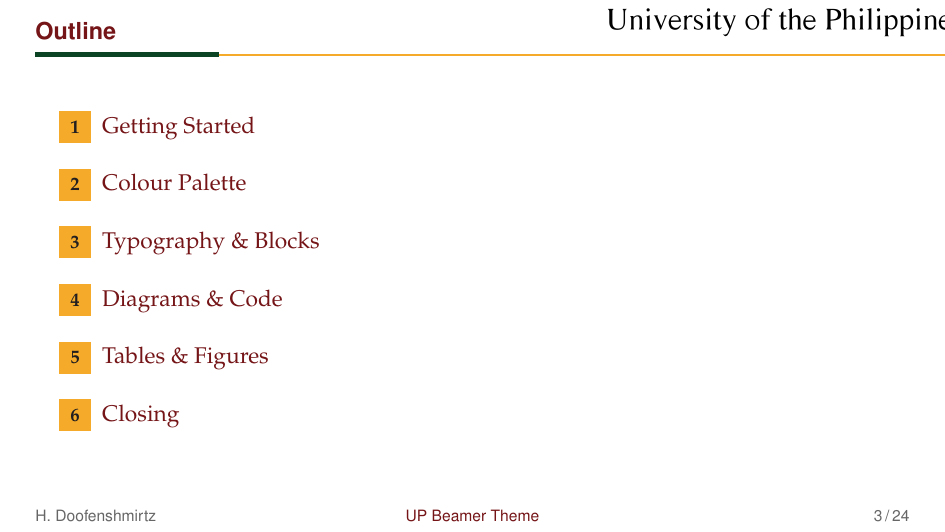
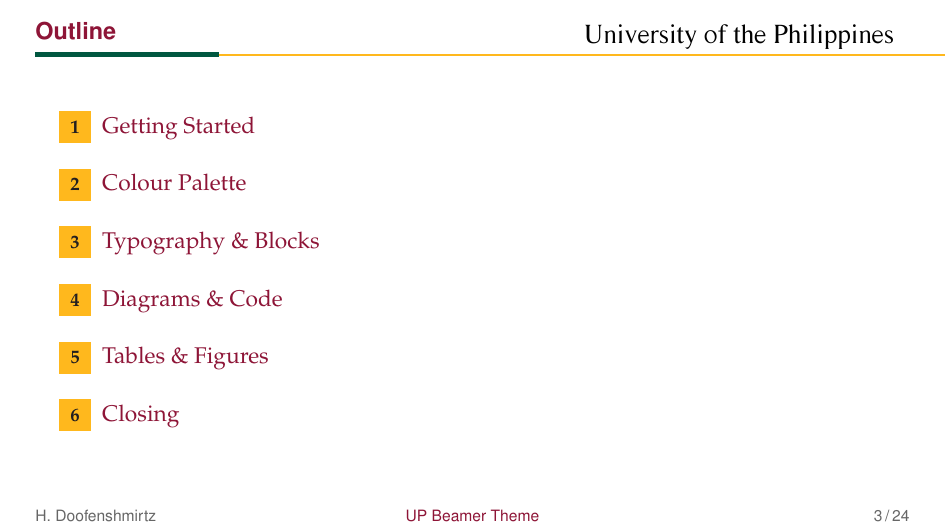
fix: refine UP header lockup with lineshot seal and balanced wordmark sizing
- updated `beamer-up/beamerouterthemeUU.sty` so the non-`nl` content-slide header now composes the UP lineshot seal beside the selected English or Filipino logotype while preserving the legacy `nl` compatibility path

- reduced the header seal scale, tightened the lockup spacing, and split the English and Filipino header wordmark widths so the UP lockup stays inside the header band and reads closer to the branding specification

- revalidated the affected header surfaces with `latexmk -pdf main.tex` and higher-resolution local page renders after the lockup-sizing change

- bumped the public docs to `v0.0.12`, added `docs/version-0-0-12-docs.md`, and recorded the new local header-inspection PNGs under `CHANGELOG.md` `For Deletion`

diff --git a/docs/version-0-0-12-docs.md b/docs/version-0-0-12-docs.md
@@ -1,0 +1,199 @@
+# Version v0.0.12 Documentation
+
+## Title
+Rebuilt the UP Content-Slide Header as a Seal-Plus-Logotype Lockup in `beamer-up`
+
+## Quick Diagnostic Read
+
+This version is a focused follow-up to the earlier UP header-alignment pass.
+It does five concrete things:
+
+- replaces the standalone non-`nl` UP content-slide wordmark with a real seal-plus-logotype header lockup,
+- scales the lineshot seal and lockup spacing so the composed mark stays inside the header band,
+- assigns separate English and Filipino wordmark widths so both variants read at a consistent apparent text height,
+- leaves the legacy `nl` Utrecht corner-logo path unchanged,
+- records the extra local inspection previews for later deletion instead of removing them automatically.
+
+## One-Sentence Objective
+
+Make the UP content-slide header behave like a compact branded lockup that follows the UP spec more closely while still fitting the Beamer header band cleanly.
+
+## Why This Version Matters
+
+The previous alignment work corrected where the UP header wordmark ended.
+It did not yet solve what the header actually was.
+
+That left three visible problems:
+
+- the non-`nl` UP path still rendered only the wordmark rather than a seal-plus-logotype lockup,
+- the first seal-and-wordmark attempt was too tall for the header band and visually collided with the gold rule,
+- the English and Filipino wordmarks did not read at the same apparent size when paired against the same seal.
+
+This version addresses those constraints directly.
+It keeps the same public `UP` loader and option names, but it changes the content-slide branding surface to behave more like a compact institutional lockup instead of a long corner label.
+
+## Plan A / Plan B
+
+### Plan A (Recommended)
+
+1. Open `beamer-up/beamerouterthemeUU.sty`.
+2. Find the non-`nl` `showlogo` branch in the footline overlay.
+3. Compile `beamer-up/main.tex`.
+4. Inspect the top-right header on the outline slide and a normal content slide.
+
+### Plan B
+
+1. Read `CHANGELOG.md` for the short release summary.
+2. Open the high-resolution cropped header previews recorded for this version.
+3. Compare the resulting lockup against the UP spec image and the old Utrecht corner-lockup behavior.
+
+## System View
+
+The relevant progression now looks like this:
+
+```text
+added selectable UP logotype variants
+  -> aligned the UP header wordmark to the content margin
+  -> rebuilt the content-slide header as a seal-plus-logotype lockup
+  -> tuned seal scale and language-specific wordmark widths
+  -> next packaging and provenance cleanup work
+```
+
+This matters because the current issue was no longer just placement.
+It was the relationship between seal, wordmark, spacing, and the fixed vertical budget of the header band.
+
+## Artifact Map
+
+### Theme implementation surface updated in this version
+
+- `beamer-up/beamerouterthemeUU.sty`
+
+### Public documentation updated in this version
+
+- `README.md`
+- `CHANGELOG.md`
+- `docs/version-0-0-12-docs.md`
+
+### Temporary inspection outputs recorded in this version
+
+- `beamer-up/logos/up-logo-lineshot-on-white-preview.png`
+- `beamer-up/logos/up-logotype-eng-black-on-white-preview.png`
+- `beamer-up/logos/up-logotype-tag-black-on-white-preview.png`
+- `beamer-up/preview-page-3-hi.png`
+- `beamer-up/preview-page-3-hi-topright.png`
+- `beamer-up/preview-page-6-hi.png`
+- `beamer-up/preview-page-6-hi-topright.png`
+
+## Detailed Walkthrough
+
+## 1) The content-slide UP path now composes a real lockup
+
+The non-`nl` content-slide logo path no longer drops in only the selected wordmark.
+Instead, it now composes:
+
+- the UP lineshot seal on the left,
+- the selected English or Filipino UP wordmark on the right,
+- a fixed gap between them inside one compact TikZ lockup.
+
+This makes the UP header behave more like the institutional lockup shown in the branding specification rather than a free-floating text mark.
+
+## 2) The lockup now respects the header-band height
+
+The first composed attempt was visibly too tall.
+The seal dipped into the rule area and the overall result felt oversized relative to the Utrecht header reference.
+
+This version scales the lineshot seal down and adjusts the lockup anchor so the whole mark stays inside the available header band instead of spilling downward.
+
+That change is small in code but important in the rendered slide.
+
+## 3) English and Filipino now use different header widths deliberately
+
+The English and Filipino wordmarks have different lengths and letter shapes.
+Using one shared width made one variant look too large or the other too small relative to the seal.
+
+So the header now uses:
+
+- one width for English,
+- a separate width for Filipino,
+- the same seal size and spacing rule for both.
+
+The goal is not identical total lockup width.
+The goal is consistent apparent text height next to the seal while still fitting the header band.
+
+## 4) The Dutch compatibility path remains separate
+
+The `nl` branch still uses the inherited Dutch corner-logo behavior.
+It was not converted into the new UP seal-plus-logotype composition.
+
+That preserves legacy compatibility and keeps the new lockup logic scoped to the public UP path only.
+
+## 5) Validation required high-resolution inspection
+
+This change could not be judged reliably from compilation alone.
+The deck was rebuilt locally and then rendered again at higher resolution so the top-right header could be inspected directly.
+
+That inspection confirmed:
+
+- the seal is present and legible,
+- the lockup stays inside the header band,
+- the English header reads as a compact seal-plus-wordmark composition rather than a standalone line of text.
+
+## Compile and Validation Notes
+
+The affected showcase deck was rebuilt locally on April 1, 2026 with:
+
+```sh
+cd beamer-up
+latexmk -pdf main.tex
+```
+
+Observed results from the validation run:
+
+- `main.pdf` was produced successfully after the lockup composition change,
+- the higher-resolution local header crops show the seal-plus-logotype composition on the affected content slides,
+- the non-fatal MiKTeX log-permission warnings remain,
+- the existing `hyperref` warnings and the underfull box in the options example remain.
+
+These warnings predate this lockup refinement and were not introduced by the new composition rule.
+
+## Pitfalls and Debugging Notes
+
+### 1) Header fit is constrained by height more than width
+
+The content-slide header has very little vertical budget.
+A lockup that looks reasonable at source-image size can still be wrong once it is placed against the rule and the page top.
+
+### 2) One shared wordmark width is not enough for both languages
+
+English and Filipino do not scale into the same apparent size when placed beside the same seal with the same width parameter.
+Treat them as separate header-fit cases.
+
+### 3) `nl` should remain a separate compatibility path
+
+The Dutch logo is still a legacy compatibility surface.
+It should not be used as the source of truth for UP seal-to-wordmark proportions.
+
+### 4) Inspection PNGs are disposable
+
+The white-background asset previews and high-resolution page crops are only local review outputs.
+They are recorded under `CHANGELOG.md` `For Deletion` and should not be treated as shipped theme assets.
+
+## Practice Task
+
+Compile the showcase deck and inspect:
+
+1. the outline slide,
+2. the `Theme Options at a Glance` slide.
+
+Self-check:
+
+- does the content-slide UP header now include the lineshot seal,
+- does the full lockup stay above the gold rule,
+- does the English or Filipino text read proportionally against the smaller seal,
+- does the `nl` path remain unchanged.
+
+## Next 24-72 Hours
+
+1. Verify the Filipino header lockup visually with a dedicated rendered crop, not only the English default deck.
+2. Remove the temporary preview images after review.
+3. Continue packaging and provenance cleanup once the UP content-slide header lockup is considered visually final.

diff --git a/README.md b/README.md
@@ -29,9 +29,9 @@
   <p align="center">
     <strong>An unofficial Beamer theme initiative for the University of the Philippines System.</strong>
     <br />
-    Version: v0.0.11
+    Version: v0.0.12
     <br />
-    Status: independently maintained derivative work; the supported public <code>UP</code> loader is implemented and compile-validated, the checked-in theme now exposes selectable UP logotype variants on light and dark slide surfaces, applies the corrected official UP core palette, aligns the content-slide UP wordmark to the right content margin, and still has release-ready packaging plus public validation notes in progress.
+    Status: independently maintained derivative work; the supported public <code>UP</code> loader is implemented and compile-validated, the checked-in theme now exposes selectable UP logotype variants on light and dark slide surfaces, applies the corrected official UP core palette, and composes a scaled content-slide UP lineshot-seal plus logotype lockup that stays inside the header band while still leaving release-ready packaging plus public validation notes in progress.
     <br />
     <a href="https://github.com/zcalifornia-ph/beamer-up"><strong>Explore the repository »</strong></a>
     <br />
@@ -90,7 +90,7 @@ This derivative work is maintained in this repository by Zildjian E. California.
 - The checked-in theme now applies the corrected official UP core palette `#8E1537`, `#005740`, `#FFB81D`, `#231F20`, and the corresponding slide treatments across title, section, content, standout, and closing-slide surfaces.
 - The supported compile baseline is `pdfLaTeX` with `biber`; `latexmk` is the recommended entry command.
 - The checked-in font stack uses Palatino for body copy and a Helvetica-style sans family for headings under the supported `pdfLaTeX` path.
-- The default `showlogo` path now uses runtime-cropped UP logotype PNGs so the header placement remains stable on content slides, with `english` as the default language variant and `filipino` available for `Unibersidad ng Pilipinas`; the UP wordmark now aligns its visible right edge to the content margin, while the `nl` option remains a legacy Dutch-logo compatibility path.
+- The default `showlogo` path now uses a content-slide UP lineshot-seal plus logotype lockup, with `english` as the default language variant and `filipino` available for `Unibersidad ng Pilipinas`; the non-`nl` lockup is scaled to stay inside the header band and anchored to the right content margin, while the `nl` option remains a legacy Dutch-logo compatibility path.
 - Title and thank-you slides now reuse the selected UP logotype in a dark-surface white variant when that asset exists.
 - Some file names, helper names, and color tokens still reflect historical `UU` lineage; they are compatibility details rather than the intended long-term public brand.
 - The theme files in this repository are distributed under `LPPL 1.3c`; institutional names, logos, and other brand assets may still involve separate usage constraints outside the software license.
@@ -136,6 +136,7 @@ docs/
   version-0-0-9-docs.md
   version-0-0-10-docs.md
   version-0-0-11-docs.md
+  version-0-0-12-docs.md
 repo/images/
   project_screen.png
 ```
@@ -195,9 +196,9 @@ Migration expectations now in effect:
 - `UP` is the supported public loader.
 - Existing options `showlogo`, `english`, `filipino`, `nl`, and `nosectionpage` are supported on the public loader.
 - Existing helper commands such as `\multiauthor`, `\singleauthor`, `\addinstitute`, `\clearinstitutes`, `\venue`, `\sectionframe`, `\standoutframe`, and `\thankframe` are expected to remain available.
-- `showlogo` renders the bundled UP logotype by default; `english` selects `University of the Philippines`, `filipino` selects `Unibersidad ng Pilipinas`, and `nl` switches to the legacy Dutch-logo compatibility path.
+- `showlogo` renders the bundled UP content-slide header lockup by default; `english` selects `University of the Philippines`, `filipino` selects `Unibersidad ng Pilipinas`, and `nl` switches to the legacy Dutch-logo compatibility path.
 - The current UP runtime uses cropped logo copies inside `beamer-up/logos/` so the selected logotype can be positioned consistently on content, title, and closing slides without depending on oversized transparent source canvases.
-- On content slides, the English and Filipino UP wordmarks now align their visible right edge to the same right margin used by the main content blocks; the `nl` compatibility logo keeps its legacy corner placement.
+- On content slides, the English and Filipino UP header lockups now pair the lineshot seal with the selected wordmark, fit inside the header band, and align the overall lockup to the same right margin used by the main content blocks; the `nl` compatibility logo keeps its legacy corner placement.
 - The default visual system now uses UP maroon `#8E1537`, forest green `#005740`, yellow `#FFB81D`, and spot black `#231F20` across the checked-in showcase and theme templates.
 - Any remaining `UU` compatibility path should be treated as a deprecated bridge rather than a coequal public alias.
 - Direct `UU` subtheme loading remains an internal compatibility detail, not part of the intended public first-release contract.

diff --git a/CHANGELOG.md b/CHANGELOG.md
@@ -1,6 +1,6 @@
 # Changelog
 
-Status: current repo milestone `v0.0.11`; the supported `UP` loader, selectable UP logotype variants, the corrected official UP core palette, the refined content-slide logo alignment, and the current UP-directed slide system are checked in, and release-ready packaging plus public validation notes remain open work.
+Status: current repo milestone `v0.0.12`; the supported `UP` loader, selectable UP logotype variants, the corrected official UP core palette, the refined content-slide header lockup, and the current UP-directed slide system are checked in, and release-ready packaging plus public validation notes remain open work.
 
 ## Unreleased
 
@@ -9,6 +9,24 @@ Status: current repo milestone `v0.0.11`; the supported `UP` loader, selectable 
 
 ### For Deletion
 - None yet.
+
+## v0.0.12
+
+### Added or Changed
+- Updated `beamer-up/beamerouterthemeUU.sty` so the non-`nl` content-slide `showlogo` path now composes the UP lineshot seal beside the selected UP logotype instead of rendering only the standalone wordmark.
+- Scaled the UP header seal and tightened the lockup spacing so the composed English and Filipino content-slide lockups stay inside the header band and do not drop into the gold rule.
+- Added separate English and Filipino header wordmark widths so the visible text height reads more consistently against the seal while preserving the legacy `nl` Dutch-logo compatibility branch unchanged.
+- Revalidated the affected header surfaces on April 1, 2026 with `latexmk -pdf main.tex` and higher-resolution local PDF page renders from `beamer-up/` after the lockup-sizing change.
+- Updated `README.md`, `CHANGELOG.md`, and added `docs/version-0-0-12-docs.md` so the public docs reflect the current UP header-lockup behavior.
+
+### For Deletion
+- `beamer-up/logos/up-logo-lineshot-on-white-preview.png` (temporary local white-background preview used to inspect the lineshot seal before composing the header lockup).
+- `beamer-up/logos/up-logotype-eng-black-on-white-preview.png` (temporary local white-background preview used to inspect the English wordmark source before composing the header lockup).
+- `beamer-up/logos/up-logotype-tag-black-on-white-preview.png` (temporary local white-background preview used to inspect the Filipino wordmark source before composing the header lockup).
+- `beamer-up/preview-page-3-hi.png` (temporary high-resolution local PDF page render used to inspect the outline-slide header lockup).
+- `beamer-up/preview-page-3-hi-topright.png` (temporary cropped high-resolution local render used to inspect the outline-slide top-right header lockup).
+- `beamer-up/preview-page-6-hi.png` (temporary high-resolution local PDF page render used to inspect the content-slide header lockup).
+- `beamer-up/preview-page-6-hi-topright.png` (temporary cropped high-resolution local render used to inspect the content-slide top-right header lockup).
 
 ## v0.0.11
 
@@ -23,6 +41,7 @@ Status: current repo milestone `v0.0.11`; the supported `UP` loader, selectable 
 - `beamer-up/preview-page-5.png` (temporary local PDF page render used to inspect the usage slide during alignment checks).
 - `beamer-up/preview-page-6.png` (temporary local PDF page render used to inspect the content-slide wordmark alignment against the right content margin).
 - `beamer-up/preview-page-7.png` (temporary local PDF page render used to inspect the manual section-divider slide during alignment checks).
+
 
 ## v0.0.10
 
